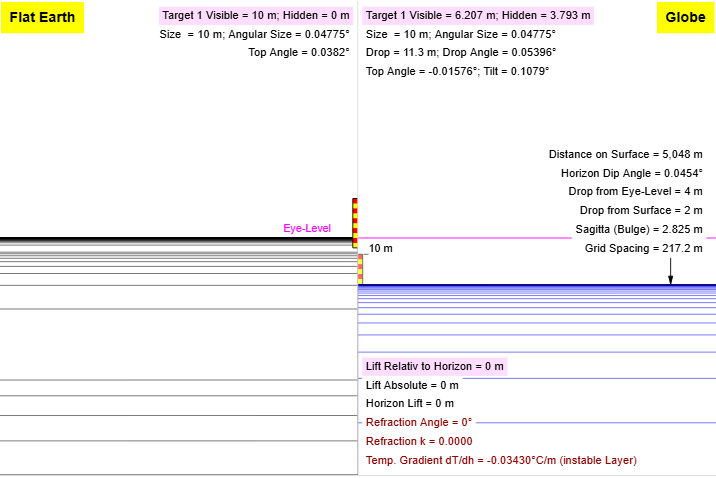
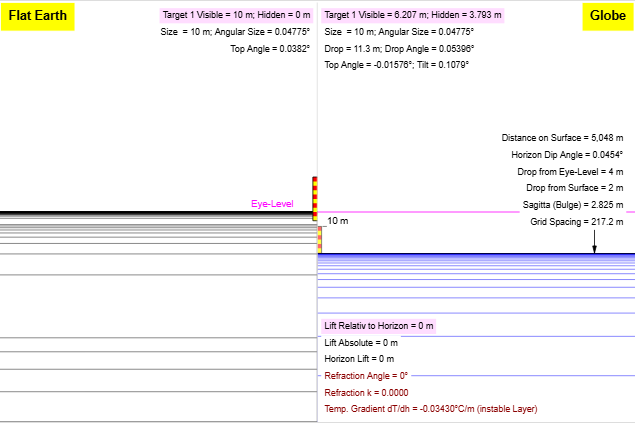
edc: wide-screen two-column layout
On >=1100px the calculator splits into two columns: graph + controls on the
left (sticky), read-only data tables + reference images on the right, and the
card grows to 1400px. Below 1100px it stays a single readable column (mobile
order unchanged). This stops wide monitors wasting horizontal space and keeps
the graph in view while scanning the data.

CSS-only + HTML wrappers (.calc-grid / .calc-left / .calc-right); no vendor or
generated-panel changes. Trimmed the read-only data inputs to 110px in the
right column so the 4-col Target/Horizon tables fit without overflow.

Verified at 1500px (two-col, no clipping) and 760px (stacked); canvas render
baselines regenerated (width changed with the layout); characterize 9/9.

diff --git a/apps/earth-drop-calc/styles/calculator.css b/apps/earth-drop-calc/styles/calculator.css
@@ -9,7 +9,9 @@
  * anything shared with fed-wabis-v2 in shared.css instead.
  * ============================================================================= */
 
-/* ---- CalcApp container ---- */
+/* ---- CalcApp container ----
+   Narrow screens: single readable column (max 760px). Wide screens: the card
+   grows to 1400px and the body splits into two columns via .calc-grid below. */
 .CalcApp {
   max-width: 760px;
   margin: 16px auto;
@@ -31,6 +33,21 @@
 .CalcApp .Scroller { width: 100%; }
 @media (max-width: 800px) {
   .CalcApp { margin: 0; border: none; border-radius: 0; box-shadow: none; }
+}
+
+/* ---- Wide-screen two-column layout ----
+   Default (mobile-first): one column, natural stacking order.
+   >=1100px: graph + controls on the left, read-only data + reference images on
+   the right, so wide monitors stop wasting horizontal space. */
+.calc-grid { display: grid; grid-template-columns: 1fr; gap: 0 28px; }
+@media (min-width: 1100px) {
+  .CalcApp { max-width: 1400px; }
+  .calc-grid { grid-template-columns: minmax(0, 1.15fr) minmax(0, 1fr); align-items: start; }
+  /* Keep the graph + its controls in view while the data column scrolls. */
+  .calc-left { position: sticky; top: 16px; }
+  /* The read-only data tables are 4-col (Label Value Label Value); their default
+     150px inputs are too wide for one column. Trim them (display-only fields). */
+  .calc-right table.ControlPanel td.Value input[type="text"] { width: 110px; }
 }
 
 /* ---- Tab Selectors ---- */

diff --git a/apps/earth-drop-calc/index.html b/apps/earth-drop-calc/index.html
@@ -48,6 +48,12 @@
     <!-- Anchor used by DataX.SetupUrlStateHandler to scroll back to the app after URL state restore. -->
     <a id="App"></a>
 
+    <!-- Wide-screen layout: on >=1100px this becomes two columns (graph + controls
+         on the left, read-only data + reference images on the right); stacks on
+         narrow screens. See calculator.css (.calc-grid). -->
+    <div class="calc-grid">
+    <div class="calc-left">
+
     <!-- 3D scene canvas mount: js/main.js → sceneRenderer.js → createGraph3D() →
        CreateDomObjects replaces this div with the <canvas>. -->
     <div id="jsg-canvas-mount"></div>
@@ -129,6 +135,9 @@
 
     </div>
 
+    </div><!-- /calc-left -->
+    <div class="calc-right">
+
     <!-- ===========================================================
        Read-only data panels (always visible below the tabs):
        Nearest Target Data and Horizon Data.
@@ -179,6 +188,9 @@
       <li class="TabDefault TabEnabled TabSelected">No Refraction</li>
       <li class="TabEnabled">Refraction</li>
     </ul>
+
+    </div><!-- /calc-right -->
+    </div><!-- /calc-grid -->
 
   </div>
 </body>

diff --git a/packages/jsgraph-vendor/RECONCILIATION.md b/packages/jsgraph-vendor/RECONCILIATION.md
@@ -4,14 +4,14 @@ Las dos apps llevaban copias **divergidas** del framework. Tras normalizar el
 formato de ambas (prettier, mismas opciones) y comparar, la divergencia funcional
 real es la siguiente:
 
-| Archivo | Δ líneas | Naturaleza de la diferencia | Canónico |
-|---|---|---|---|
-| DataX.js | 2 | fed añade `export {}` + `globalThis` (ESM). Código idéntico. | **fed** |
-| xtc.js | 2 | idem | **fed** |
-| ModelAnimation.js | 9 | idem | **fed** |
-| jsgx3d.js | 26 | fed: `inheritsFrom` → prototipado estándar; + ESM exports | **fed** |
-| jsg.js | 48 | fed: `var JsgMat2` (fix global implícito); `document.writeln` → inserción DOM (necesario bajo ESM/Vite); + ESM exports | **fed** |
-| wiki.js | 2588 | fed adelgazó mucho (eliminó dead code). edc usa la versión completa. | **fed** (solo fed lo consume hoy) |
+| Archivo           | Δ líneas | Naturaleza de la diferencia                                                                                            | Canónico                          |
+|-------------------|----------|------------------------------------------------------------------------------------------------------------------------|-----------------------------------|
+| DataX.js          | 2        | fed añade `export {}` + `globalThis` (ESM). Código idéntico.                                                           | **fed**                           |
+| xtc.js            | 2        | idem                                                                                                                   | **fed**                           |
+| ModelAnimation.js | 9        | idem                                                                                                                   | **fed**                           |
+| jsgx3d.js         | 26       | fed: `inheritsFrom` → prototipado estándar; + ESM exports                                                              | **fed**                           |
+| jsg.js            | 48       | fed: `var JsgMat2` (fix global implícito); `document.writeln` → inserción DOM (necesario bajo ESM/Vite); + ESM exports | **fed**                           |
+| wiki.js           | 2588     | fed adelgazó mucho (eliminó dead code). edc usa la versión completa.                                                   | **fed** (solo fed lo consume hoy) |
 
 ## Decisión
 